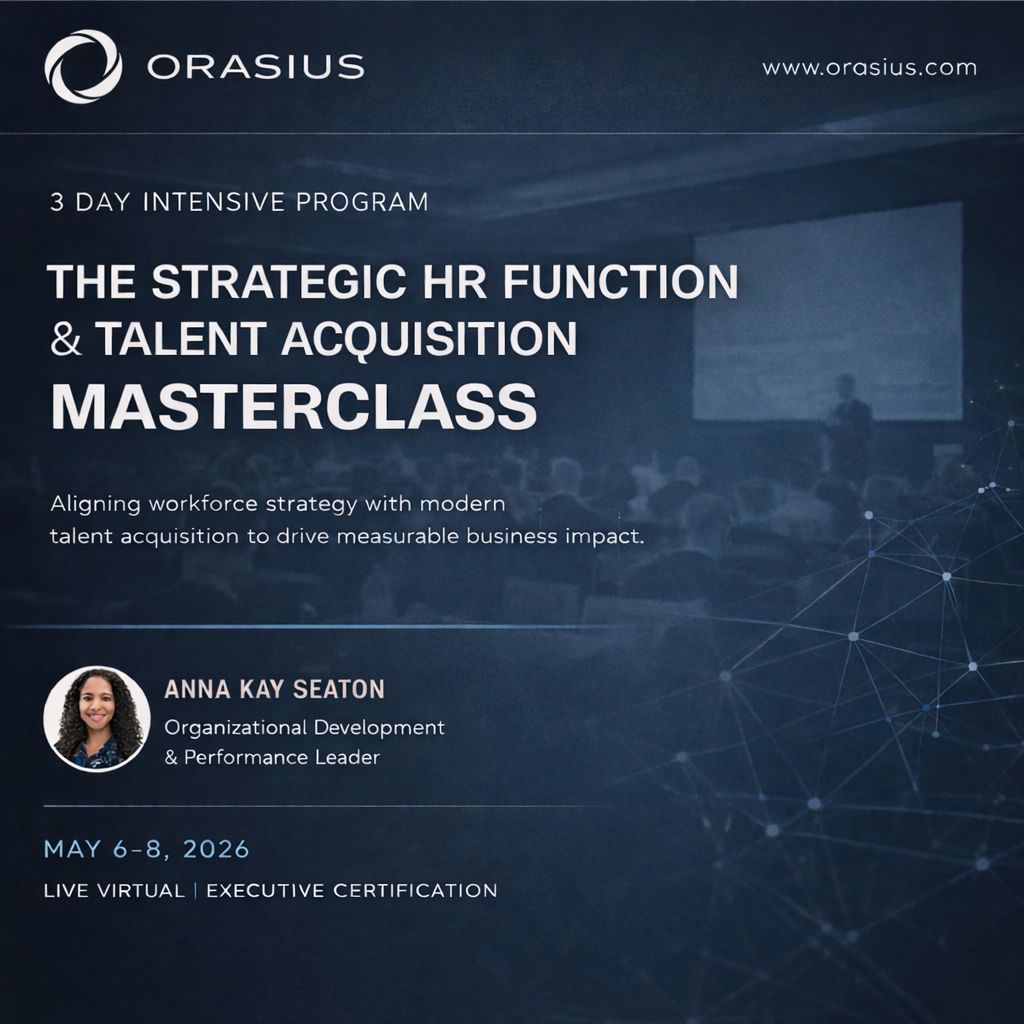
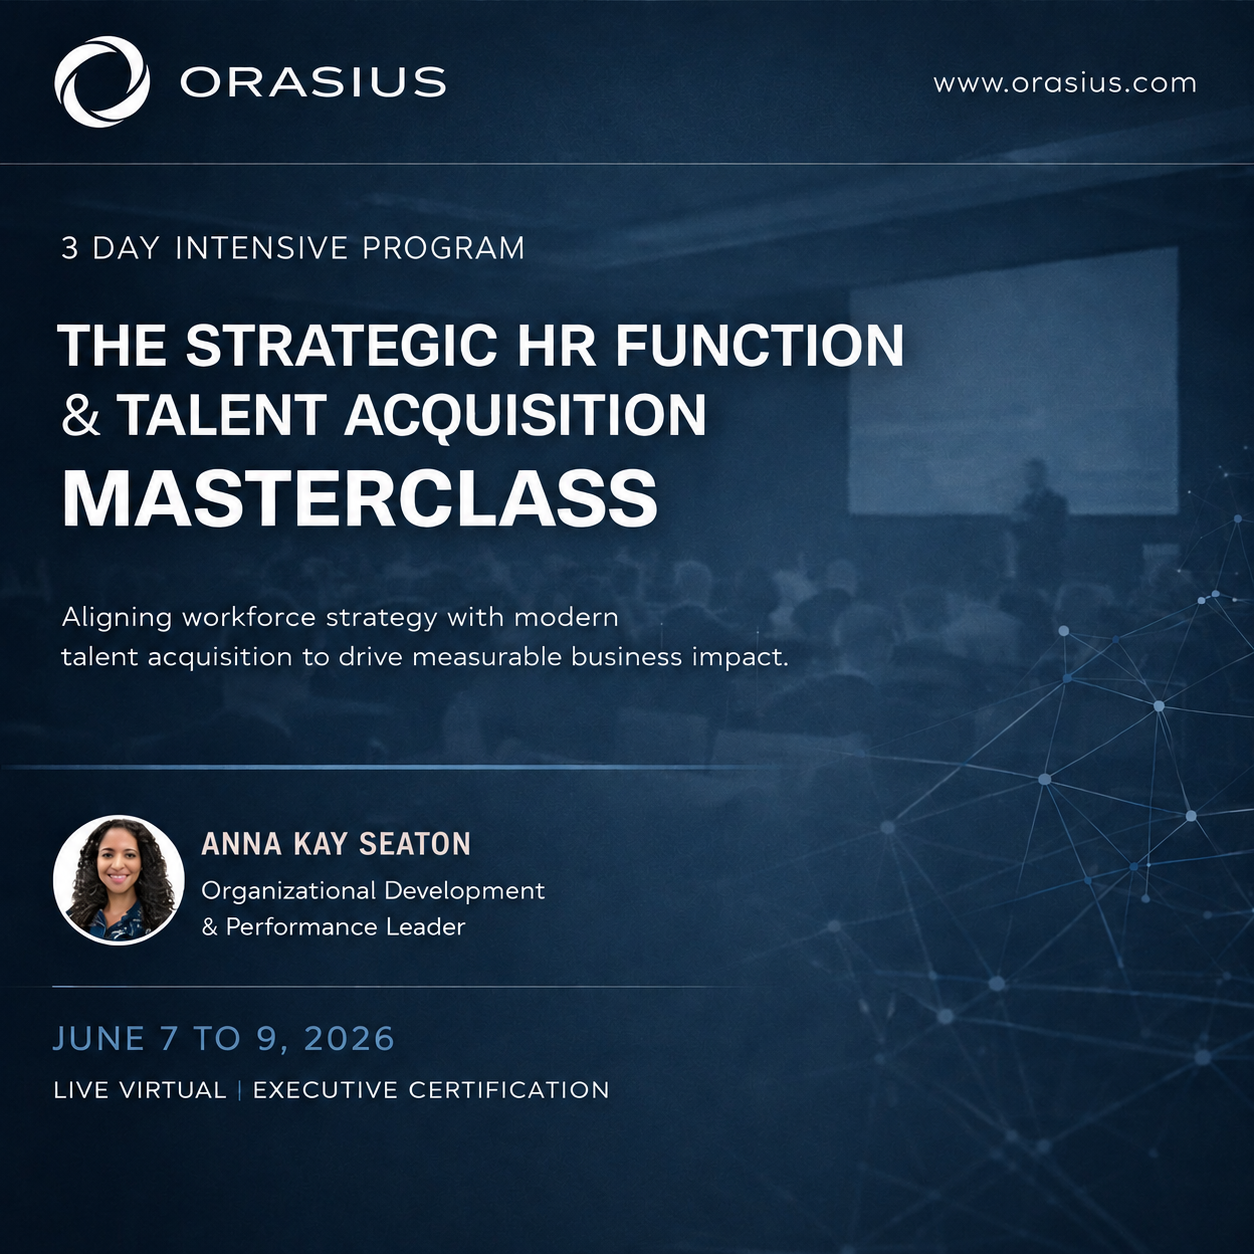
Changes

diff --git a/src/data/trainings.ts b/src/data/trainings.ts
@@ -16,7 +16,7 @@ export const ongoingTrainings: Training[] = [
     title: "The Strategic HR Function & Talent Acquisition Masterclass",
     description:
       "Aligning workforce strategy with modern talent acquisition to drive measurable business impact.",
-    date: "May 6–8, 2026",
+    date: "June 7–9, 2026",
     posterImage: hrMasterclass,
     whatsappLink: "https://wa.me/918884386913?text=Hello%20I%20am%20interested%20in%20the%20HR%20Masterclass",
   },
